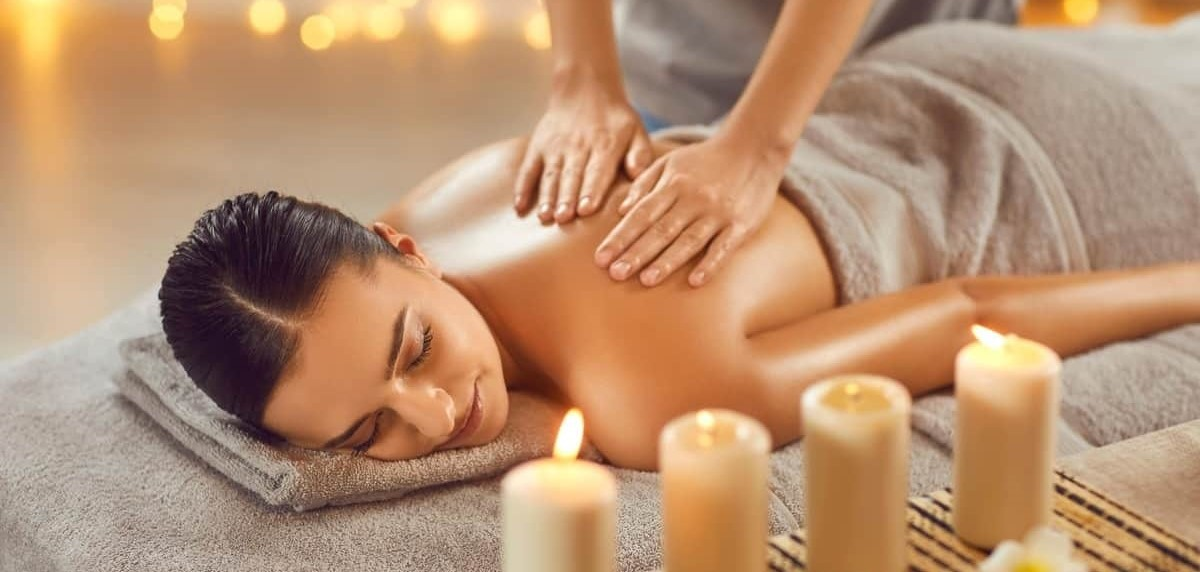
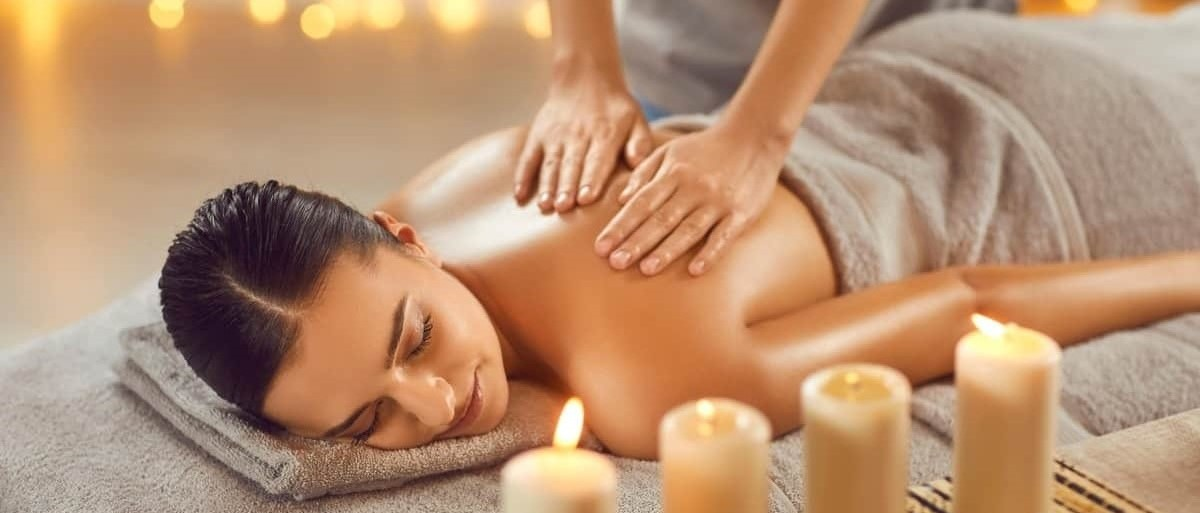
mas arreglos

diff --git a/index.html b/index.html
@@ -9,6 +9,7 @@
 <link rel="stylesheet" href="https://fonts.googleapis.com/css?family=Raleway">
 <link rel="stylesheet" href="https://cdnjs.cloudflare.com/ajax/libs/font-awesome/4.7.0/css/font-awesome.min.css">
 <link rel="shortcut icon" href="./imagenes/logo.png">
+
 <style>
     body,h1,h2,h3,h4,h5,h6 {font-family: "Raleway", sans-serif}
 
@@ -26,16 +27,17 @@ body, html {
 <body>
 <header>
 <!-- Navbar (sit on top) -->
-<div class="w3-top">
+<div>
   <div class="w3-bar w3-card" id="myNavbar">
     <!-- LOGO -->
     <a href="#home"><img  class="logo" src="./imagenes/logo.png" alt=""></a>
     <!-- Right-sided navbar links -->
     <div class="w3-right w3-hide-small menu-links">
       <a href="./secciones/turnos.html" class="w3-bar-item w3-button"><i class="fa fa-calendar"></i> TURNOS</a>
-      <a href="#tratamientos" class="w3-bar-item w3-button"><i class="fa fa-user"></i> TRATAMIENTOS</a>
-      <a href="./secciones/iniciarsesion.html" class="w3-bar-item w3-button"><i class="fa fa-th"></i> INICIAR SESION</a>
+      <a href="#about" class="w3-bar-item w3-button"><i class="fa fa-user"></i> NOSOTROS</a>
+      <a href="#tratamientos" class="w3-bar-item w3-button"><i class="fa fa-dot-circle-o"></i> TRATAMIENTOS</a>
       <a href="#contact" class="w3-bar-item w3-button"><i class="fa fa-envelope"></i> CONTACTO</a>
+      <a href="./secciones/iniciarsesion.html" class="w3-bar-item w3-button"><i class="fa fa-th"></i> INICIAR SESION</a>
     </div>
     <!-- Hide right-floated links on small screens and replace them with a menu icon -->
 
@@ -48,20 +50,21 @@ body, html {
 <!-- Sidebar on small screens when clicking the menu icon -->
 <nav class="w3-sidebar w3-bar-block w3-black w3-card w3-animate-left w3-hide-medium w3-hide-large" style="display:none" id="mySidebar">
   <a href="nojavascript...void(0)" onclick="w3_close()" class="w3-bar-item w3-button w3-large w3-padding-16">Close ×</a>
-  <a href="#about" onclick="w3_close()" class="w3-bar-item w3-button">ABOUT</a>
-  <a href="#team" onclick="w3_close()" class="w3-bar-item w3-button">TEAM</a>
-  <a href="#work" onclick="w3_close()" class="w3-bar-item w3-button">WORK</a>
-  <a href="#pricing" onclick="w3_close()" class="w3-bar-item w3-button">PRICING</a>
-  <a href="#contact" onclick="w3_close()" class="w3-bar-item w3-button">CONTACT</a>
+  <a href="./secciones/turnos.html" onclick="w3_close()" class="w3-bar-item w3-button">TURNOS</a>
+  <a href="#about" onclick="w3_close()" class="w3-bar-item w3-button">NOSOTROS</a>
+  <a href="#tratamientos" onclick="w3_close()" class="w3-bar-item w3-button">TRATAMIENTOS</a>
+  <a href="#contact" onclick="w3_close()" class="w3-bar-item w3-button">CONTACTO</a>
+  <a href="./secciones/iniciarsesion.html" onclick="w3_close()" class="w3-bar-item w3-button">INICIAR SESION</a>
 </nav>
 
-<div id="home">
+<divid="home">
     <img class="w3-right imagen-hero" src="./imagenes/masajes-imagenhero2.jpg " alt="masajes">
 </div>
 
 <!-- About Section -->
+
 <div class="w3-container" style="padding:128px 16px" id="about">
-  <h3 class="w3-center">SOBRE NOSOTROS</h3>
+  <h3 class="w3-center"  >SOBRE NOSOTROS</h3>
   <p class="w3-center w3-large">Características claves de nuestra clínica</p>
   <div class="w3-row-padding w3-center" style="margin-top:64px">
     <div class="w3-quarter">
@@ -80,7 +83,7 @@ body, html {
       <p>Nuestros espacios están diseñados para promover la tranquilidad y la curación. Desde la arquitectura hasta la decoración, cada detalle está pensado para crear un ambiente relajante y revitalizante.</p>
     </div>
     <div class="w3-quarter">
-      <i class="fa fa-thumbs-o-up w3-margin-bottom w3-jumbo"></i>
+      <i class="fa fa-search w3-margin-bottom w3-jumbo"></i>
       <p class="w3-large">Seguimiento continuo</p>
       <p>Entendemos que la sanación es un proceso continuo. Por eso, ofrecemos soporte y seguimiento personalizado para asegurarnos de que nuestros pacientes mantengan su bienestar a largo plazo.</p>
     </div>

diff --git a/estilos/style.css b/estilos/style.css
@@ -20,10 +20,12 @@
 }
 
 .imagen-hero{
-    margin-top: 80px;
+   
     width: 100%;
     margin-bottom: 80px;
+    height: auto;
 } 
+
 
 footer{
     background-color: #7BB094 !important;
